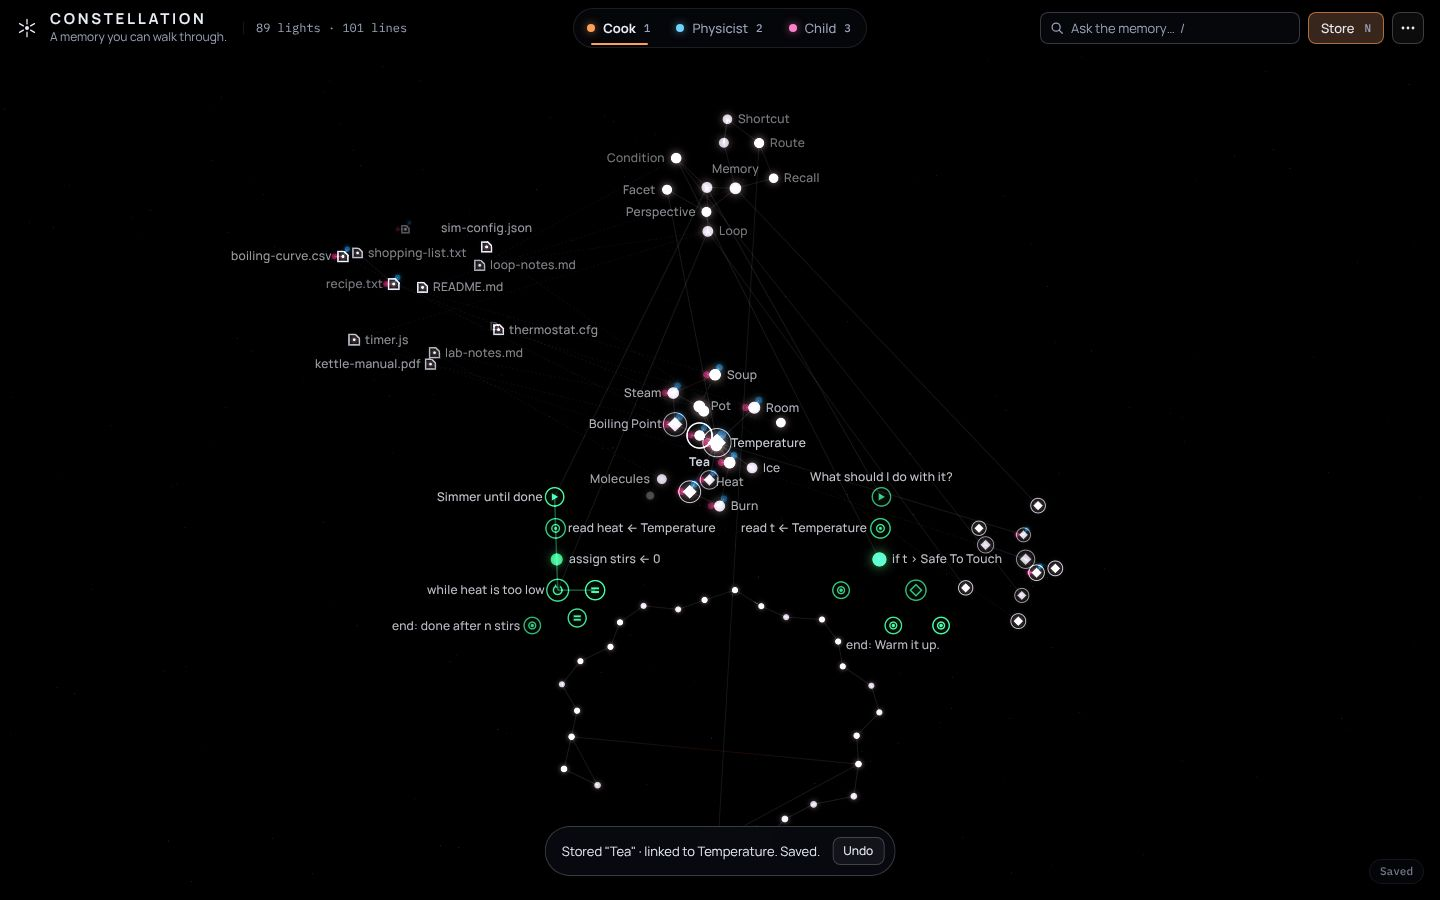
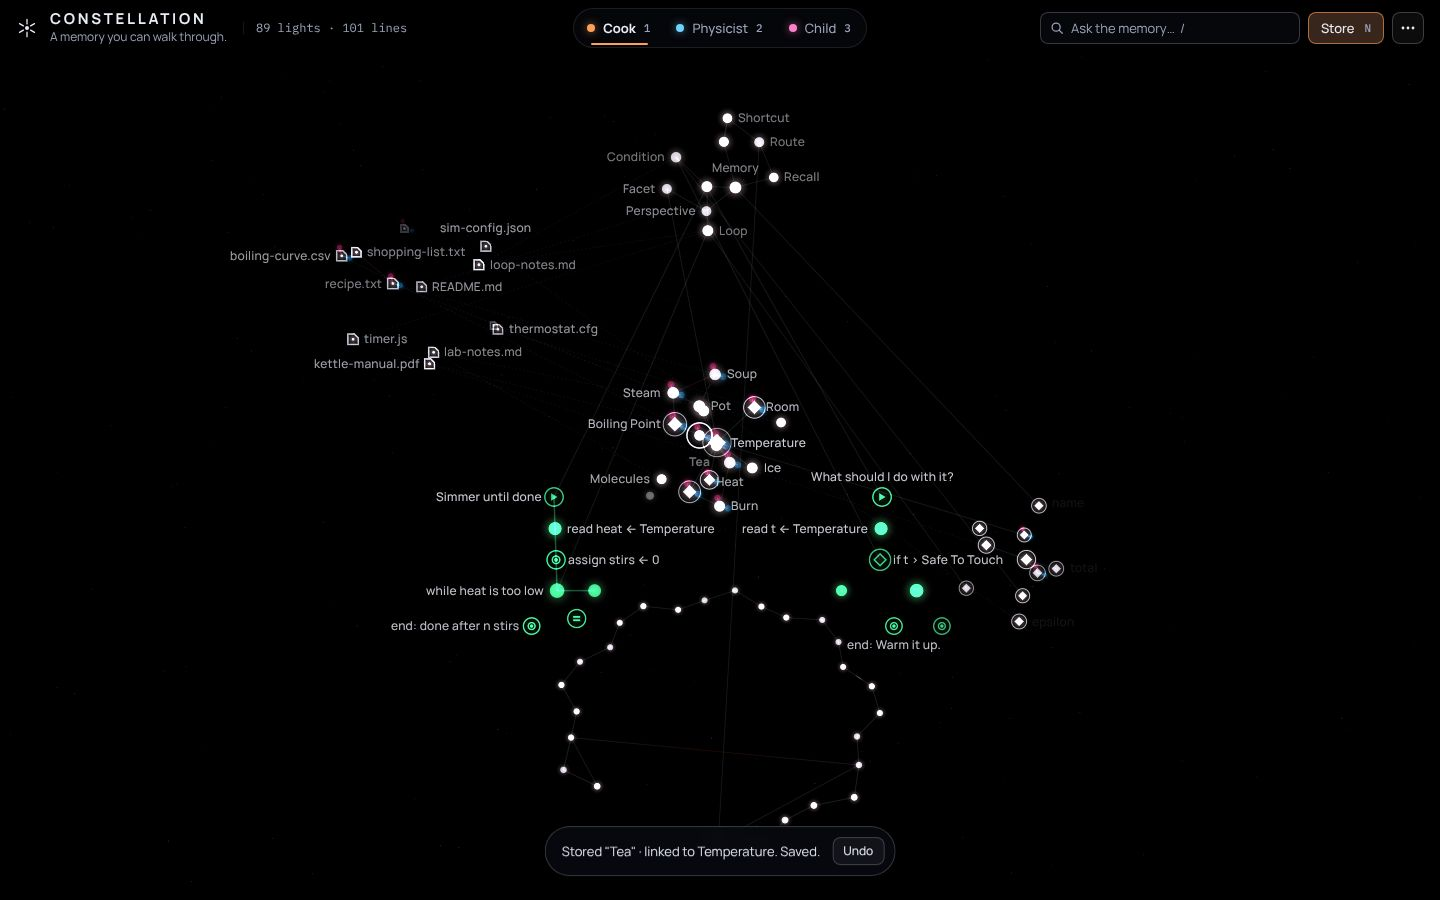
M-0002: WO-003 view work in progress (checkpoint after rate-limit stop)
Claude-Session: https://claude.ai/code/session_01Nz16PwjAT5eDHtiEjG1iHC

diff --git a/projects/constellation/src/view/renderer.ts b/projects/constellation/src/view/renderer.ts
@@ -22,9 +22,15 @@ import { clamp, createClock, easeBack, easeInOut, easeOut, easeSine, hash01, ler
 import { Overlay, type OverlayItem } from './overlay.ts';
 
 type RGB = [number, number, number];
+/** sRGB 0..1 straight from the token (three's Color would convert to linear; our shaders output sRGB as-is). */
 const hex = (h: string): RGB => {
-  const c = new Color(h);
-  return [c.r, c.g, c.b];
+  const m = /^#?([0-9a-f]{6})$/i.exec(h.trim());
+  if (!m) {
+    const c = new Color().setStyle(h);
+    return [c.r, c.g, c.b];
+  }
+  const n = parseInt(m[1]!, 16);
+  return [((n >> 16) & 255) / 255, ((n >> 8) & 255) / 255, (n & 255) / 255];
 };
 const mix = (a: RGB, b: RGB, u: number): RGB => [lerp(a[0], b[0], u), lerp(a[1], b[1], u), lerp(a[2], b[2], u)];
 const toCss = (c: RGB) => `rgb(${Math.round(c[0] * 255)}, ${Math.round(c[1] * 255)}, ${Math.round(c[2] * 255)})`;
@@ -151,7 +157,8 @@ interface Playback {
 }
 
 export const createRenderer: CreateRenderer = ({ container, reducedMotion }) => {
-  const gl = new WebGLRenderer({ antialias: true, powerPreference: 'high-performance', alpha: false });
+  // SDF shaders anti-alias themselves; MSAA would only cost fill rate.
+  const gl = new WebGLRenderer({ antialias: false, powerPreference: 'high-performance', alpha: false });
   const dpr = Math.min(window.devicePixelRatio || 1, 2);
   gl.setPixelRatio(dpr);
   gl.setClearColor(new Color(0x000000), 1);
@@ -1105,7 +1112,8 @@ export const createRenderer: CreateRenderer = ({ container, reducedMotion }) => 
         const lit = da !== undefined && db !== undefined ? Math.max(0.3, Math.pow(0.55, Math.max(da, db))) * 2.2 : 0.04 / Math.max(0.01, st.alpha);
         alpha *= lerp(1, Math.min(lit, 3), activationFade);
       }
-      if (routeMix > 0) alpha *= lerp(1, 0.25, routeMix);
+      // Lines on the lit route (and the freshly learned shortcut) stay bright; the rest of the sky dims.
+      if (routeMix > 0 && !(trailNodes.has(e.from) && trailNodes.has(e.to))) alpha *= lerp(1, 0.25, routeMix);
       if (hovered && hoverMix > 0) {
         const touches = e.from === hovered || e.to === hovered;
         alpha = touches ? lerp(alpha, 0.5, hoverMix) : alpha * lerp(1, 0.55, hoverMix);
@@ -1363,7 +1371,7 @@ export const createRenderer: CreateRenderer = ({ container, reducedMotion }) => 
             offset: 0,
             anchors: [Math.cos(ang) < 0 ? 'left' : 'right', 'below', 'center'],
             priority: 85 - i * 0.1 + (n.id === selected ? 10 : 0),
-            opacity: op,
+            opacity: Math.max(op, 0.85),
             color: toCss(lensOf(g.perspective)),
           });
         });
@@ -1377,7 +1385,7 @@ export const createRenderer: CreateRenderer = ({ container, reducedMotion }) => 
             offset: 0,
             anchors: ['above', 'center'],
             priority: 86,
-            opacity: op,
+            opacity: Math.max(op, 0.85),
             color: lensCss,
           });
         }
@@ -1431,7 +1439,8 @@ export const createRenderer: CreateRenderer = ({ container, reducedMotion }) => 
     }
     const cores: Array<{ x: number; y: number; r: number }> = [];
     for (const n of order) if (n.onScreen && n.bright > 0.1) cores.push({ x: n.sx, y: n.sy, r: (n.id === selected ? Math.max(n.pxR * 2.4, n.pxR + 7) : Math.max(3, n.pxR * (n.data.kind === 'pathway' ? 1.5 : 1))) + 1 });
-    overlay.place(items, cap, width, height, cores);
+    // Keep labels below the top bar (56 px; 100 px with the 375 lens row).
+    overlay.place(items, cap, width, height, cores, width < 768 ? 104 : 60);
   }
 
   // ── Public surface ───────────────────────────────────────────────────────────────

diff --git a/projects/constellation/src/ui/stress.ts b/projects/constellation/src/ui/stress.ts
@@ -42,16 +42,34 @@ export function stressDoc(count: number): MemoryDoc {
     add(i, sameCluster);
     if (rnd() < 0.5) add(i, Math.floor(rnd() * n), rnd() < 0.3 ? ['b'] : undefined);
   }
+  // Authored positions at the seed's scale: eight cluster islands per lens, so 500 points read
+  // as a sky (and measure the renderer), not a packed hairball.
+  const positions = (spread: number) => {
+    const out: Record<string, { x: number; y: number; z: number }> = {};
+    for (let i = 0; i < n; i++) {
+      const c = i % clusters;
+      const a = (c / clusters) * Math.PI * 2 + spread;
+      const anchor = { x: Math.cos(a) * 170, y: Math.sin(a * 1.7) * 70, z: Math.sin(a) * 120 };
+      const u = rnd() * 2 - 1;
+      const th = rnd() * Math.PI * 2;
+      const rr = 42 * Math.cbrt(rnd());
+      const k = Math.sqrt(1 - u * u);
+      out[`s${i}`] = { x: round(anchor.x + Math.cos(th) * k * rr), y: round(anchor.y + u * rr), z: round(anchor.z + Math.sin(th) * k * rr) };
+    }
+    return out;
+  };
   return {
     schema: SCHEMA_ID,
     version: SCHEMA_VERSION,
     meta: { title: `Stress: ${n} points`, defaultPerspective: 'a' },
     perspectives: [
-      { id: 'a', label: 'Lens A', accent: '#FF9F5A' },
-      { id: 'b', label: 'Lens B', accent: '#6FD3FF' },
-      { id: 'c', label: 'Lens C', accent: '#FF7EC8' },
+      { id: 'a', label: 'Lens A', accent: '#FF9F5A', positions: positions(0) },
+      { id: 'b', label: 'Lens B', accent: '#6FD3FF', positions: positions(0.6) },
+      { id: 'c', label: 'Lens C', accent: '#FF7EC8', positions: positions(1.2) },
     ],
     nodes,
     relations,
   };
 }
+
+const round = (v: number) => Math.round(v * 100) / 100;

diff --git a/projects/constellation/src/view/layers.ts b/projects/constellation/src/view/layers.ts
@@ -48,7 +48,8 @@ void main() {
   float minR = aKind.x == 3.0 ? 4.5 : 3.0;
   float r = clamp(aSize * uPxScale / depth, minR, 18.0) * aMisc.y;
   float haloK = aKind.x == 2.0 ? 0.6 : 1.0;
-  float ext = max(r * 3.2 * aMisc.z * haloK, aMisc.w > 0.0 ? max(r * 2.4, r + 7.0) + 2.0 : 0.0);
+  // The halo is visually spent by ~2.7r; a tighter sprite saves fill rate at 500 points.
+  float ext = max(r * 2.7 * aMisc.z * haloK, aMisc.w > 0.0 ? max(r * 2.4, r + 7.0) + 2.0 : 0.0);
   vSprite = max(ext, r * 2.4) + 2.0;
   vR = r;
   vCore = aCore;
@@ -123,7 +124,10 @@ void main() {
   } else {
     core = fill(d - R);
   }
-  float halo = exp(-pow(d / (R * 1.35 * vMisc.z * haloK), 2.0)) * (kind == 3.0 ? 0.14 : 0.42) * step(d, R * 3.2 * vMisc.z * haloK);
+  // Gaussian-shaped falloff without exp/pow: (1 - x²)³ over the halo extent.
+  float hx = clamp(d / (R * 2.7 * vMisc.z * haloK), 0.0, 1.0);
+  float hq = 1.0 - hx * hx;
+  float halo = hq * hq * hq * (kind == 3.0 ? 0.14 : 0.42);
   float ring = vMisc.w > 0.0 ? stroke(d - max(R * 2.4, R + 7.0), 1.5) * vMisc.w : 0.0;
   float b = vMisc.x;
   vec3 col = coreCol * core * b + vHalo * halo * min(b, 1.4) + vec3(0.96, 0.97, 1.0) * ring;
@@ -454,6 +458,8 @@ export class LineLayer {
       a.setUsage(DynamicDrawUsage);
       this.geo.setAttribute(name, a);
     }
+    // three.js caches the instance limit at first bind; clear it so grown buffers draw in full.
+    (this.geo as unknown as { _maxInstanceCount?: number })._maxInstanceCount = undefined;
   }
 
   begin(): void {

diff --git a/projects/constellation/src/styles/app.css b/projects/constellation/src/styles/app.css
@@ -36,7 +36,7 @@ kbd { font: 500 var(--fs-11) / 1 var(--font-mono); color: var(--ink-dim); }
 #stage .overlay-layer { z-index: 1; contain: strict; }
 
 .lbl, .chip, .flowchip, .condchip, .badge, .trailchip, .readchip {
-  position: absolute; left: 0; top: 0; white-space: nowrap; will-change: transform, opacity;
+  position: absolute; left: 0; top: 0; white-space: nowrap;
   opacity: 0; transition: opacity 120ms linear;
 }
 .lbl.on, .chip.on, .flowchip.on, .condchip.on, .badge.on, .trailchip.on, .readchip.on { opacity: var(--o, 1); transition-duration: 160ms; }
@@ -190,6 +190,8 @@ body.show-tools .lenses, body.show-tools .tools { opacity: 1; transform: none; t
 .panel-head { display: flex; align-items: center; gap: var(--s2); padding: var(--s3) var(--s3) 0 var(--s4); }
 .panel-body { padding: var(--s4); overflow: auto; display: flex; flex-direction: column; gap: var(--s4); scrollbar-width: thin; scrollbar-color: var(--hairline-strong) transparent; }
 .panel-head .close { margin-left: auto; }
+.insp { display: flex; flex-direction: column; min-height: 0; flex: 1 1 auto; }
+.drawer > .panel-body, .insp > .panel-body { min-height: 0; flex: 1 1 auto; }
 .handle { display: none; }
 
 .tabs { display: flex; gap: 2px; }

diff --git a/projects/constellation/src/view/overlay.ts b/projects/constellation/src/view/overlay.ts
@@ -94,7 +94,7 @@ export class Overlay {
   }
 
   /** Greedy placement; `labelCap` limits items with isLabel. `obstacles` (node cores) block labels too. */
-  place(items: OverlayItem[], labelCap: number, vw: number, vh: number, obstacles: Array<{ x: number; y: number; r: number }> = []): void {
+  place(items: OverlayItem[], labelCap: number, vw: number, vh: number, obstacles: Array<{ x: number; y: number; r: number }> = [], minY = 2): void {
     this.frame++;
     items.sort((a, b) => b.priority - a.priority);
     const placed: PlacedRect[] = [];
@@ -119,7 +119,7 @@ export class Overlay {
       let spot: { x: number; y: number } | null = null;
       for (const a of it.anchors) {
         const p = anchorAt(a, it.x, it.y, it.offset, w, h);
-        if (p.x < 2 || p.y < 2 || p.x + w > vw - 2 || p.y + h > vh - 2) continue;
+        if (p.x < 2 || p.y < minY || p.x + w > vw - 2 || p.y + h > vh - 2) continue;
         if (!it.force && overlaps(p.x, p.y, w, h)) continue;
         spot = p;
         break;

diff --git a/projects/constellation/tests/e2e/flows.spec.ts b/projects/constellation/tests/e2e/flows.spec.ts
@@ -245,7 +245,8 @@ test('[E5] store + find: store Tea, link it to Temperature, reload, search finds
   await expect(page.locator('.toast', { hasText: 'Welcome back. 89 lights. The 1 you stored is where you left it.' })).toBeVisible({ timeout: 6000 });
   await page.keyboard.press('/');
   await page.keyboard.type('tea');
-  await page.waitForFunction(() => window.__constellation!.state!().activationCounts?.[0] === 1);
+  // "tea" is also inside "Steam" (substring match), so Tea is one of the depth-0 matches.
+  await page.waitForFunction(() => (window.__constellation!.state!().activationCounts?.[0] ?? 0) >= 1);
   await expect(page.locator('#drawer .rlist button', { hasText: /^Tea$/ })).toBeVisible();
   await page.locator('#drawer .rlist button', { hasText: /^Tea$/ }).click();
   await expect(page.locator('#inspector h2')).toHaveText('Tea');

diff --git a/projects/constellation/README.md b/projects/constellation/README.md
@@ -1,19 +1,51 @@
 # Constellation
 
-A spatial memory: points of light in a black 3D void, joined by typed, weighted relations, seen through perspectives that disagree, with runnable `if`/`while` pathways and learnable shortcuts.
+A spatial memory. Every thing you store is a point of light in a black 3D void, and every relation is a line between two points. You look at it through **perspectives** that disagree, you run `if`/`while` **pathways** through it, and it can **learn shortcuts**.
 
-> Wave-0 scaffold. WO-003 writes the full README (model, controls); WO-002 writes `docs/memory-format.md` (the JSON format).
+## The model in one minute
+- **Points** (nodes) hold a value. A point is a *thing*, a *variable*, a *file* reference (name, path, type, size note, optional text) or a *pathway step*.
+- **Lines** (relations) are typed and weighted: relates, is-a, part-of, references, next (a declared chain), reads, flow (pathway control) and shortcut (learned).
+- **Perspectives** (lenses) such as Cook, Physicist and Child can give one point different values. *Temperature* is `20 °C` to the Cook and `293 K` to the Physicist. A line can also exist only in some lenses. When you switch lenses, the space re-forms. Any point whose values disagree shows faint **ghosts** of the other lenses' values instead of hiding them.
+- **Pathways** are flowcharts made of points (`start`, `read`, `assign`, `if`, `while`, `end`). Their conditions read point values under the active lens, so the same pathway can loop twice for the Cook and four times for the Physicist. The result card explains why.
+- **Routes**: you ask for a route from A to Z. The declared chain (25 hops) and the weighted shortest route (3 hops) race each other as two lit trails. **Learn shortcut** adds a permanent A–Z line.
+- **Recall**: when you type a word, the matches flare, and their neighbours light up by how many hops away they are (1, 2 or 3). The Results tab lists the same groups.
+
+Everything autosaves to this browser (localStorage) and can be exported or imported as JSON. The file format is in [`docs/memory-format.md`](docs/memory-format.md).
+
+## Controls
+| Input | Action |
+|---|---|
+| Drag · right-drag (or Shift-drag) · wheel | Orbit · pan · dolly (touch: one finger orbits, two pinch and pan) |
+| Click a light | Select it, fly to it and open the inspector |
+| `1` `2` `3` | Cook · Physicist · Child lens |
+| `/` | Ask the memory (search) |
+| `Esc` | Undo one layer: link mode, menu, search, run, route, inspector, drawer |
+| `←` `↑` `→` `↓` · `[` `]` | Move to the nearest neighbour in that direction · cycle through neighbours |
+| `Enter` / `F` | Open the inspector / fly to the selection |
+| `N` · `L` (long-press on touch) | Store a thing · link the selection to another light |
+| `R` · `P` | Route drawer · Pathways drawer |
+| `Space` / `S` | Run or pause / step the pathway |
+| `D` (hold) | Expand every ghost with its value |
+| `Home` | Reset the camera |
+| `Ctrl/⌘+Z` · `Ctrl/⌘+E` | Undo · export |
+| `?` | Key map |
+
+Reduced motion is respected. Lens switches become instant, ghosts stay expanded, there is no drift or breathing, and pulses step from node to node.
 
 ## Commands (Node ≥ 22.18)
 | Command | What it does |
 |---|---|
-| `npm install` | Install pinned dependencies (Playwright browsers must already be present; never `playwright install` in the Bureau sandbox) |
+| `npm install` | Install the pinned dependencies (the Playwright browsers must already be present) |
 | `npm run dev` | Dev server on http://127.0.0.1:5173 |
-| `npm run build` | Static build to `dist/` |
-| `npm run verify` | preflight → typecheck → unit (`node --test`) → build → bundle size → Playwright e2e (axe + console errors + screenshots) |
+| `npm run build` | Static build to `dist/` (deployable as-is: relative paths) |
+| `npm run verify` | preflight → typecheck → unit tests (`node --test`) → build → bundle size → Playwright e2e (axe, console errors, screenshots) |
+
+URL flags: `?seed=1` ignores the autosave and opens a fresh seed. `?stress=500` opens a generated 500-point memory for checking frame time; that memory is never autosaved.
 
 ## Layout
-- `src/core/` — DOM-free model: graph, perspectives, layout, routing, retrieval, expressions, flow interpreter, persistence. Public API: `src/core/index.ts`; types: `src/core/types.ts`.
-- `src/view/` — Three.js renderer behind `src/view/contracts.ts`.
-- `src/ui/` — panels (vanilla DOM). `src/main.ts` wires everything.
-- `src/seed/memory.json` — the seed memory, same format as import/export.
+- `src/core/`: the DOM-free model (graph, perspectives, layout, routing, retrieval, expressions, flow interpreter, persistence). Public API: `src/core/index.ts`.
+- `src/view/`: the Three.js renderer behind `src/view/contracts.ts`. Each node is one SDF point sprite with its glyph chosen by kind. Edges are instanced screen-space quads, so they can have width, dashes, sheen and lens gradients. Additive layers sit on true black with no post-processing. One clock drives every animation.
+- Labels are a capped pool of DOM elements: 40 by default, 18 below 600 px and 48 at 1920 px. They are placed greedily in priority order (selected, hovered, search matches, neighbours, Long Road letters, degree), and any label that would overlap a placed label or a node core is skipped.
+- `src/ui/`: the panels (vanilla DOM): top bar, drawer (Route · Pathways · Results), inspector, Store sheet, link mode and toasts. `src/main.ts` wires everything together and installs `window.__constellation`, the test hook.
+- `src/seed/memory.json`: the seed memory, in the same format as import and export.
+- Fonts: Manrope and IBM Plex Mono, self-hosted under the SIL Open Font License (`src/styles/fonts/OFL-*.txt`).
